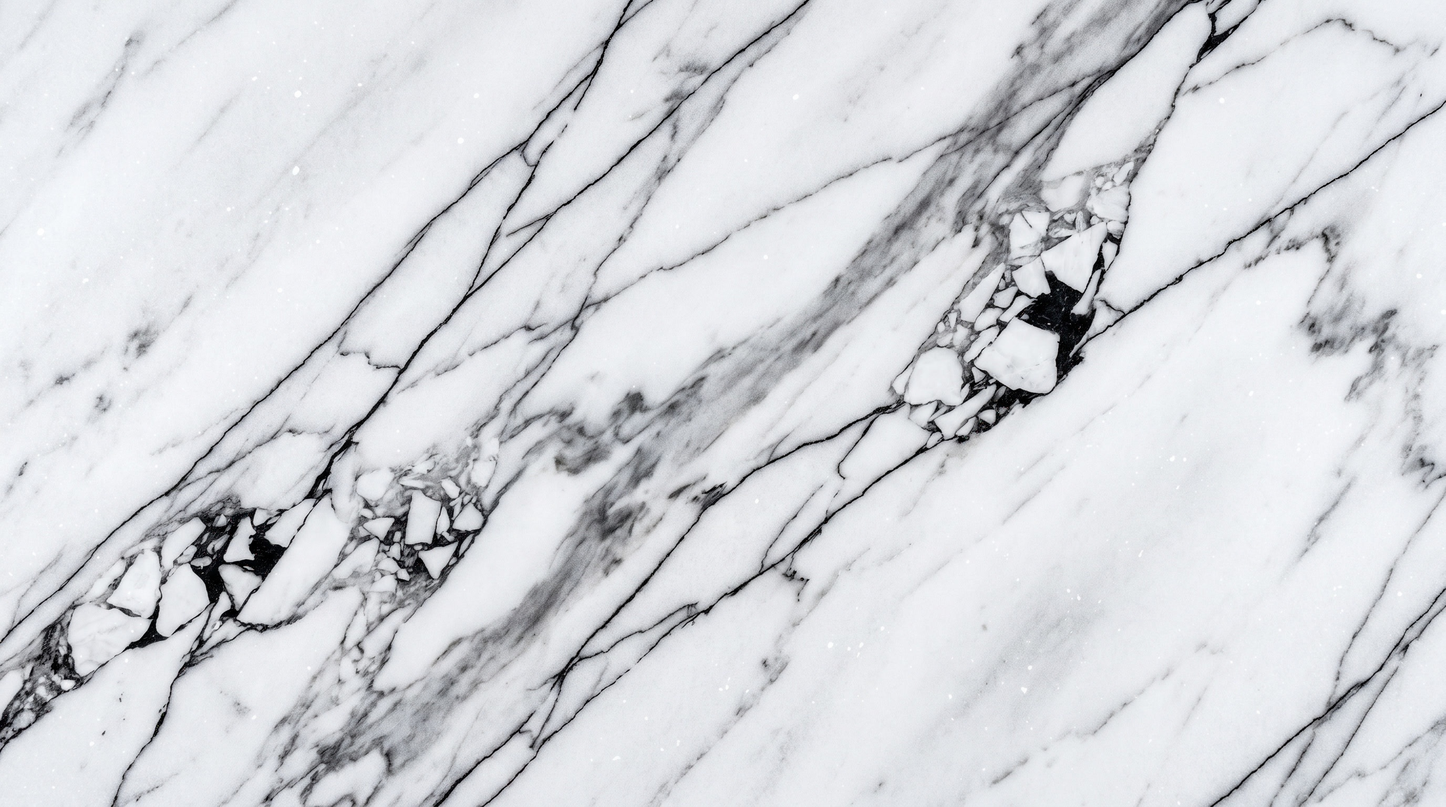
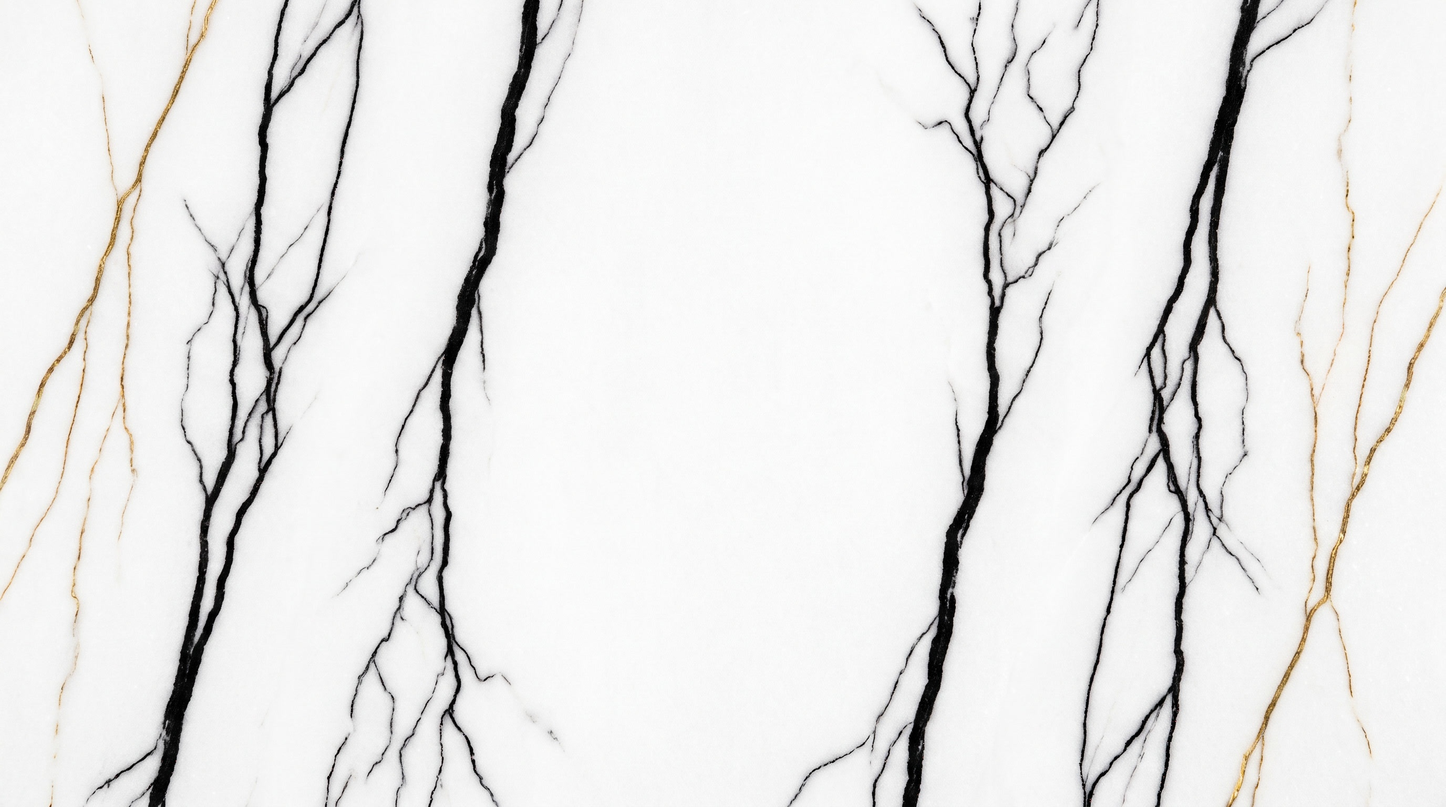
Мрамор «Технологии» — кадр рамкой: жилы по краям, середина пустая
Новый кадр построен под этот разворот: чёрные жилы-молнии стоят двумя
группами по левому и правому краю, по самым краям — тонкие золотые
жилы в тон цепи между карточками, середина оставлена пустой, там лежат
восемь карточек.

Тон править не пришлось — исходник нейтральный, белое на 251, чёрное
на 8; ни баланса белого, ни растяжки уровней, ни зерна против полос,
как требовал прежний кадр с Pexels. Осталась одна геометрия: кадр не
подрезается в пропорцию полосы, а тянется по высоте. Подрезка здесь
губительна — центральный вырез это ровно пустая середина, все жилы
ушли бы за кадр; растяжение же идёт вдоль вертикальных жил и на глаз
не читается. 358 КБ против прежних 601.

На телефоне полоса узкая и длинная, cover показал бы из кадра ленту в
одну шестую ширины — опять пустую середину. В mobile.css фон полосы
переключён на 100% 100%: кадр не подрезается, рамка из жил остаётся
на своих местах.

diff --git a/assets/mobile.css b/assets/mobile.css
@@ -102,6 +102,18 @@
   }
   .hero::after{box-shadow:none}
 
+  /* Мрамор «Технологии». Кадр построен рамкой: жилы стоят по
+     левому и правому краю, середина пустая — под карточки. На
+     десктопе полоса почти квадратная, и cover показывает кадр
+     целиком. На телефоне полоса узкая и очень длинная (примерно
+     1 к 8), и cover показал бы из неё вертикальную ленту шириной
+     в одну шестую — то есть ровно пустую середину, без единой
+     жилы. Поэтому здесь кадр не подрезаем, а тянем по высоте:
+     жилы вертикальные, растяжение вдоль них не читается, зато
+     рамка остаётся на своих местах и фон не превращается в лист
+     бумаги. */
+  .marble{background-size:auto,100% 100%}
+
   /* ---------- ЗАГОЛОВКИ ---------------------------------- */
   h2{line-height:1.12;margin-bottom:.2rem}
   .lede{

diff --git a/mramor.py b/mramor.py
@@ -1,66 +1,47 @@
 # -*- coding: utf-8 -*-
 """Мраморная плита для фона разворота «Технология».
 
-Фон — фотография камня. Прежняя, снятая с Pexels, была настоящим
-камнем, но снятым в тень и с крупным зерном: чтобы зерно не пошло
-полосами в webp, в неё досыпали ещё полторы единицы своего, и на
-полосе вся эта крошка читалась как мыло. Кадр заменён на рисованный
-(nanobanana, 2752×1536): рисунок тот же — ломаная сеть жил снизу
-слева наверх направо, с двумя раздробленными гнёздами, — но края
-жил чистые, а белые поля гладкие.
+Кадр рисованный (nanobanana, 2752×1536). Он построен рамкой: чёрные
+жилы-молнии стоят двумя группами по левому и правому краю, между ними
+широкое пустое поле белого камня, а по самым краям — несколько тонких
+золотых жил в тон цепи, которая вьётся между карточками. Середина
+пустая не случайно: там лежат восемь карточек, и любой рисунок под
+ними только мешал бы.
 
-Что делает скрипт:
+Тон исходника править не пришлось: он нейтральный (по каналам 251 /
+251 / 251 в светах), белое стоит на 251, чёрное на 8. Прежний кадр,
+снятый с Pexels, требовал и баланса белого, и растяжки уровней, и
+зерна против полос webp — здесь ничего этого не нужно.
 
-  1. Центральный кадр в пропорции полосы. Полоса на десктопе —
-     1904×2005, почти квадрат; исходник широкий, 16:9. Берётся
-     середина по ширине: 1456×1536. Оба гнезда остаются в кадре.
+Единственное, что делает скрипт, — геометрия:
 
-  2. Баланс белого. Камень синит: по 99-му процентилю 242 / 244 /
-     248. Зелёный и синий прижимаются к красному — правятся именно
-     света, иначе жилы уходят в охру.
+  1. Растяжка до 2000×2110 — пропорции полосы (на десктопе она
+     1904×2005, почти квадрат). Растяжка неравномерная: по ширине
+     кадр ужимается втрое от 2752 (резкость от этого только растёт),
+     по высоте тянется в 1.37 раза от 1536.
 
-  3. Света к белому. Верх снимка стоит на 240, из-за чего камень
-     читается серым; уровни тянут 240 в 252. Тени не трогаем: они
-     и так на 7, жилы чёрные.
+     Подрезать вместо растяжки нельзя, и в этом вся суть. Центральный
+     кадр в пропорции полосы — это 1456 точек из 2752, то есть ровно
+     пустая середина: все жилы остались бы за кадром, а на полосе
+     оказался бы белый лист. Растяжение же идёт вдоль жил — они
+     вертикальные, — и на глаз не читается вовсе.
 
-  4. Растяжка Ланцошем до 2000×2110 и слабая нерезкая маска.
-     Растяжка здесь неизбежна: полоса почти квадратная, а исходник
-     широкий, и по высоте его в любом случае тянуть в 1.37 раза.
-     Лучше растянуть Ланцошем с маской один раз тут, чем отдать это
-     браузеру на каждом экране.
+  2. Слабая нерезкая маска после растяжки.
 
-  5. Зерна не сыплем. Оно и было причиной замены; на гладком
-     рисунке webp обходится без него, полос при quality 86 нет.
+Зерно не сыплем: рисунок гладкий, при quality 92 полос на белых полях
+нет, а весит файл всего 358 КБ — вдвое меньше прежних 601.
 
-Вес — 517 КБ против прежних 601 КБ. Ниже 80 опускаться нельзя:
-на белых полях появляется ступенька.
+На телефоне полоса узкая и очень длинная, и там cover показал бы из
+кадра ленту в одну шестую ширины — опять пустую середину. Поэтому в
+mobile.css фон переключён на `100% 100%`: кадр не подрезается, а
+тянется по высоте.
 """
-import numpy as np
 from PIL import Image, ImageFilter
 
 SRC = "mramor-ishodnik.jpg"
 OUT = "assets/img/marble.webp"
 W, H = 2000, 2110             # пропорция полосы, с небольшим запасом
 
-src = Image.open(SRC).convert("RGB")
-
-# ---- 1. центральный кадр в пропорции полосы ------------------
-cw = int(round(src.height * (W / H)))
-crop = src.crop(((src.width - cw) // 2, 0, (src.width - cw) // 2 + cw, src.height))
-
-a = np.asarray(crop).astype(np.float32)
-
-# ---- 2. баланс белого по 99-му процентилю --------------------
-ref = np.percentile(a[..., 0], 99)
-for i in (1, 2):
-    a[..., i] *= ref / np.percentile(a[..., i], 99)
-
-# ---- 3. света к белому, тени на месте ------------------------
-lo, hi = 4.0, float(np.percentile(a, 99.6))
-a = np.clip((a - lo) * (252.0 / (hi - lo)), 0, 255)
-
-# ---- 4. растяжка и нерезкая маска ----------------------------
-img = Image.fromarray(a.astype(np.uint8)).resize((W, H), Image.LANCZOS)
-img = img.filter(ImageFilter.UnsharpMask(radius=1.6, percent=58, threshold=2))
-
-img.save(OUT, quality=86, method=6)
+img = Image.open(SRC).convert("RGB").resize((W, H), Image.LANCZOS)
+img = img.filter(ImageFilter.UnsharpMask(radius=1.4, percent=50, threshold=2))
+img.save(OUT, quality=92, method=6)
